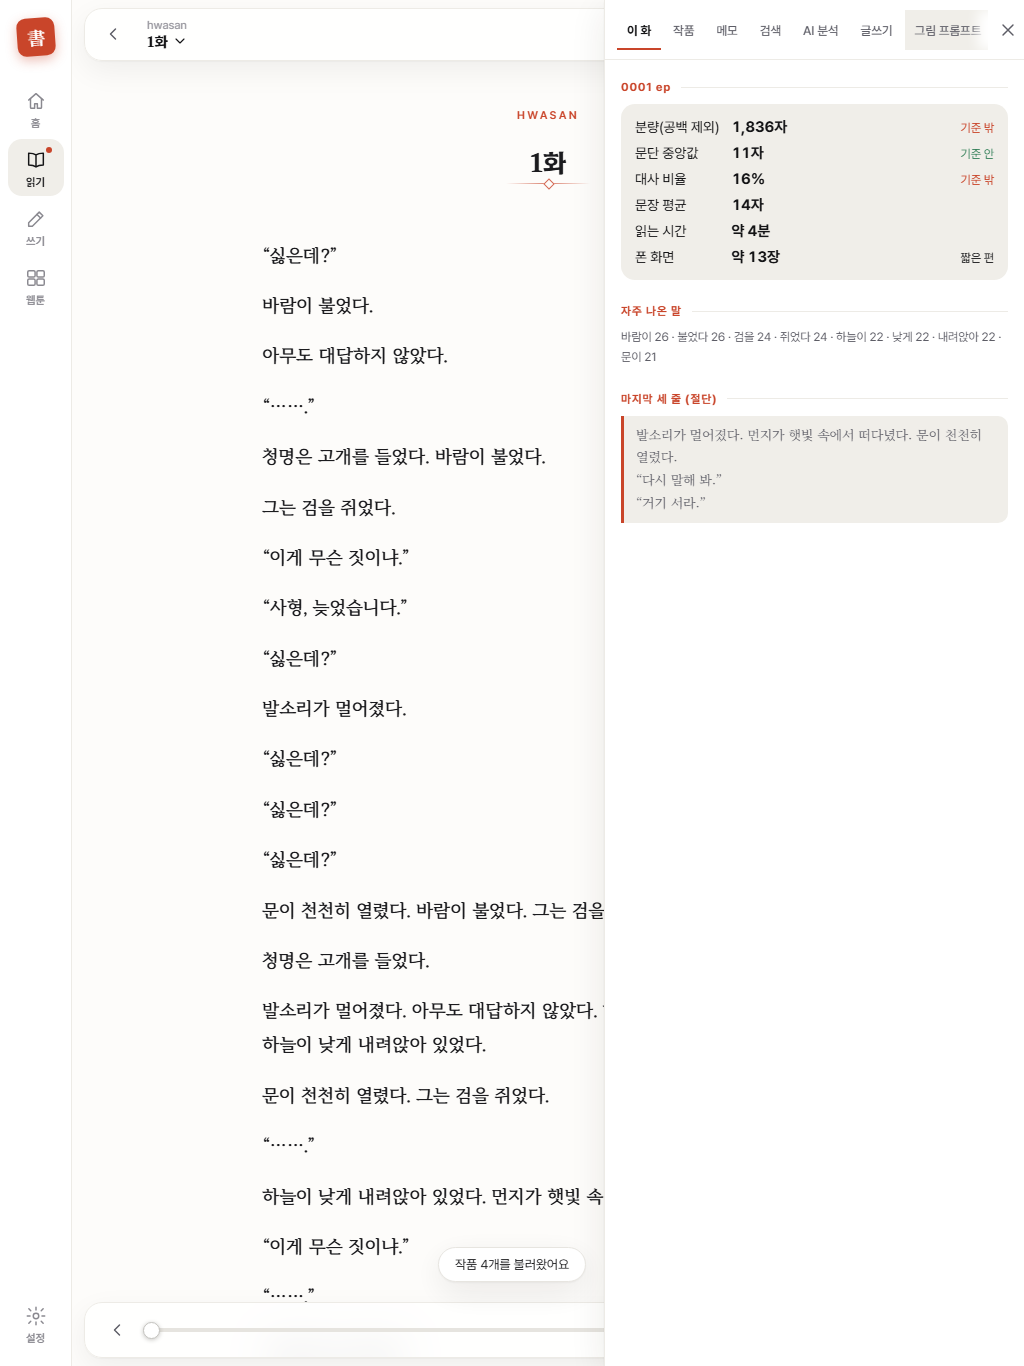
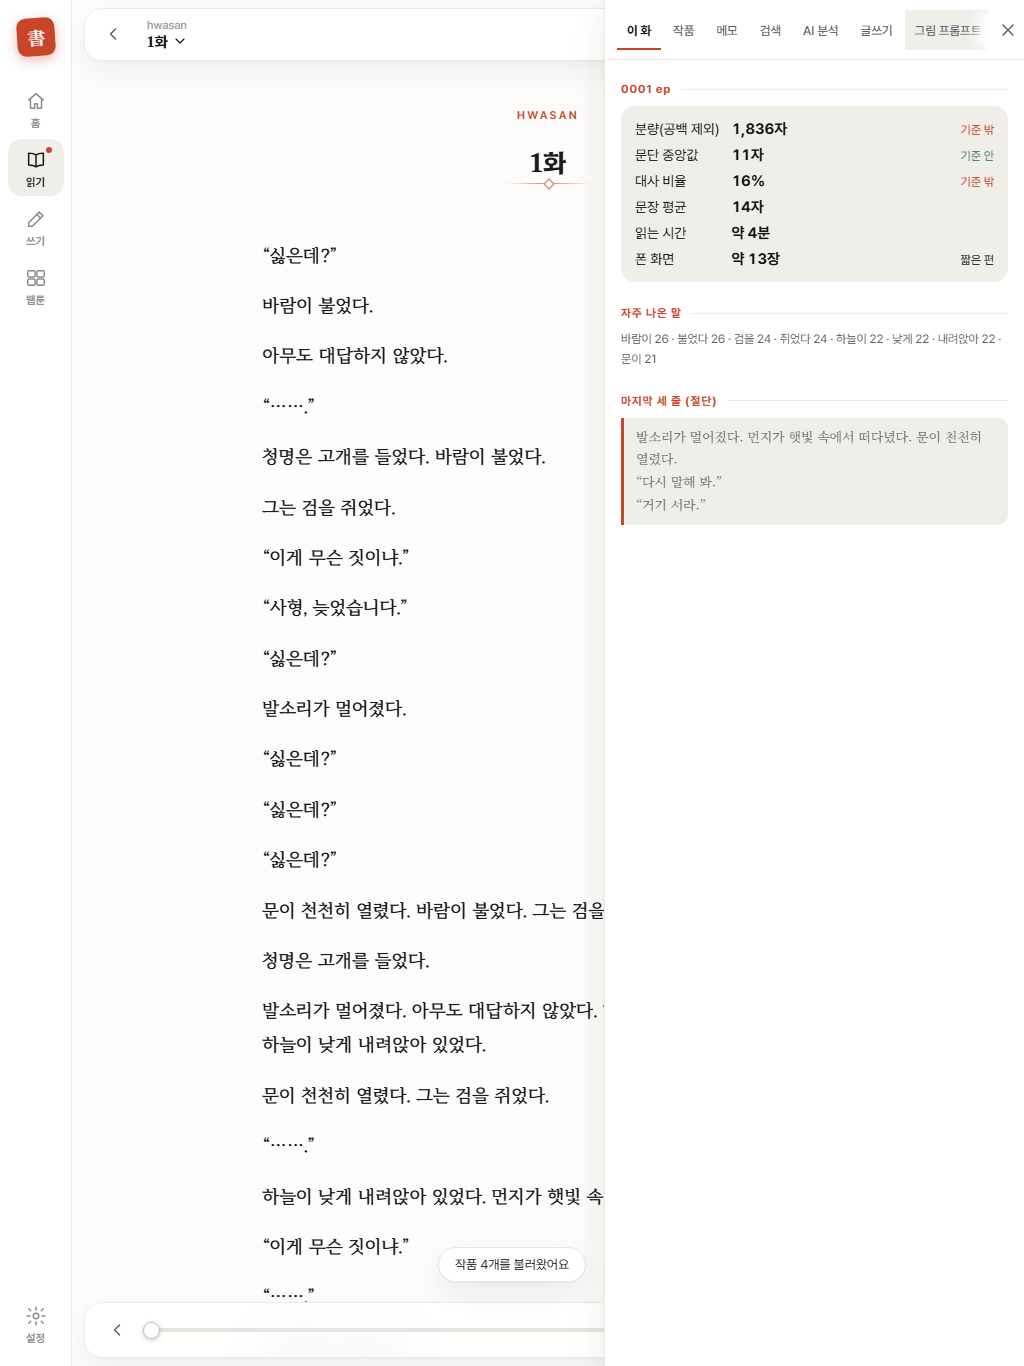
1.1.8: 뷰어 다듬기 — 표지 없는 작품은 활자 표지
- 표지 없는 소설·만화: 이름으로 고른 깊은 색(열 가지) 바탕에
  가는 이중 테두리·분류 글자·세리프 제목·마름모 장식을 얹은 활자 표지
  (예전의 납작한 먹빛 네모 + 주홍 도장을 걷어냄)
- 홈 '이어 읽기' 빈 칸: 책 아이콘과 안내 두 줄로 가운데 정돈
- 서재 묶음 머리글(소설·만화·웹툰)을 세리프로 또렷하게
- 도구 판: 탭 줄이 좁을 때 밀어 보기, 판 안쪽 여백
- 전체 시험 22묶음 285가지 전부 통과

diff --git a/index.html b/index.html
@@ -1024,7 +1024,6 @@ input[type=range]::-webkit-slider-runnable-track{background:linear-gradient(to r
 .card .cv{box-shadow:0 1px 2px rgb(30 24 12 / 10%), 0 8px 18px rgb(30 24 12 / 12%)}
 .card:hover .cv{transform:translateY(-2px);box-shadow:0 2px 4px rgb(30 24 12 / 12%), 0 14px 28px rgb(30 24 12 / 16%)}
 .card .cv .ph{background:linear-gradient(90deg, rgb(0 0 0 / 20%), rgb(0 0 0 / 4%) 6%, transparent 12%), hsl(var(--h) 30% 34%);color:hsl(var(--h) 40% 92%);padding:14px 12px 14px 16px;font:700 14px/1.45 var(--serif);text-shadow:none}
-.card .cv .ph::before,.card .cv .ph::after{display:none}
 :root[data-theme="dark"] .card .cv .ph,:root[data-theme="black"] .card .cv .ph{background:linear-gradient(90deg, rgb(0 0 0 / 30%), transparent 12%), hsl(var(--h) 22% 24%)}
 .card .cv .kind{display:none}
 .card .t{font:700 13.5px/1.4 var(--serif);margin-top:10px}
@@ -1100,9 +1099,7 @@ input[type=range]::-webkit-slider-runnable-track{background:linear-gradient(to r
 }
 
 /* 표지 없는 책: 먹빛에 작품마다 살짝 다른 색만 비치게, 아래에 주홍 도장 하나 */
-.card .cv .ph,.h-book .cv .ph,.h-read .w-resume .cv .ph,.h-pcv{background:linear-gradient(90deg, rgb(0 0 0 / 22%), rgb(0 0 0 / 4%) 6%, transparent 12%), linear-gradient(165deg, hsl(var(--h,30) 16% 30%), hsl(var(--h,30) 12% 20%))!important;color:#f3f1ec!important}
-.card .cv .ph::after{content:"";display:block!important;position:absolute;left:50%;bottom:16px;width:10px;height:10px;margin-left:-5px;border-radius:2px;background:var(--accent);transform:rotate(-4deg);box-shadow:none}
-:root[data-theme="dark"] .card .cv .ph,:root[data-theme="black"] .card .cv .ph{background:linear-gradient(90deg, rgb(0 0 0 / 30%), transparent 12%), linear-gradient(165deg, hsl(var(--h) 14% 24%), hsl(var(--h) 10% 15%))!important}
+.h-book .cv .ph,.h-read .w-resume .cv .ph,.h-pcv{background:linear-gradient(90deg, rgb(0 0 0 / 22%), rgb(0 0 0 / 4%) 6%, transparent 12%), linear-gradient(165deg, hsl(var(--h,30) 16% 30%), hsl(var(--h,30) 12% 20%))!important;color:#f3f1ec!important}
 .card .t,.h-book b{font-family:var(--display);font-weight:600}
 #studio .st-cover{background:linear-gradient(90deg, rgb(0 0 0 / 22%), transparent 14%), linear-gradient(165deg, hsl(var(--h,30) 16% 30%), hsl(var(--h,30) 12% 20%));color:#f3f1ec;font-family:var(--display);border-radius:3px 7px 7px 3px}
 #studio .st-cover[style*="url("]{background-size:cover;background-position:center}
@@ -1201,6 +1198,37 @@ input[type=range]::-webkit-slider-runnable-track{background:linear-gradient(to r
 .lan-addr button{flex:none;padding:7px 12px;font-size:12px}
 /* 손님(아이패드·폰)으로 열렸을 때: 넣기·연결 단추는 숨긴다 (읽기 전용) */
 .lan-guest #lpActs,.lan-guest #gnav [data-g=toon]{display:none!important}
+
+/* ---------- 다듬기: 표지 없는 작품은 활자 표지 ---------- */
+.card .cv .ph{display:flex;flex-direction:column;align-items:center;justify-content:center;gap:9px;padding:18px 12px 22px 17px;text-align:center;
+  background:
+    linear-gradient(90deg, rgb(0 0 0 / 30%), rgb(0 0 0 / 7%) 6%, transparent 13%),
+    radial-gradient(130% 90% at 50% -15%, hsl(var(--h) 45% 52% / .5), transparent 58%),
+    linear-gradient(hsl(var(--h) 36% 31%), hsl(var(--h) 40% 23%));
+  color:hsl(var(--h) 48% 94%)}
+.card .cv .ph::before{content:"";position:absolute;inset:9px 8px 9px 15px;border:1px solid hsl(var(--h) 55% 92% / .38);outline:1px solid hsl(var(--h) 55% 92% / .12);outline-offset:3px;border-radius:0;box-shadow:none;background:none;pointer-events:none}
+.card .cv .ph::after{content:"◆";position:absolute;left:0;right:0;top:auto;bottom:14px;width:auto;height:auto;margin:0;background:none;border:none;text-align:center;transform:translateX(3px);font-size:8px;line-height:1;opacity:.55;color:hsl(var(--h) 55% 90%)}
+.card .cv .ph i{font:600 10px/1 var(--ui);font-style:normal;letter-spacing:.38em;text-indent:.38em;opacity:.78}
+.card .cv .ph i:empty{display:none}
+.card .cv .ph b{font:700 16px/1.55 var(--serif);max-width:100%;display:-webkit-box;-webkit-line-clamp:4;-webkit-box-orient:vertical;overflow:hidden;word-break:keep-all;text-wrap:balance}
+:root[data-theme="dark"] .card .cv .ph,:root[data-theme="black"] .card .cv .ph{color:hsl(var(--h) 42% 90%);background:
+    linear-gradient(90deg, rgb(0 0 0 / 38%), rgb(0 0 0 / 10%) 6%, transparent 13%),
+    radial-gradient(130% 90% at 50% -15%, hsl(var(--h) 40% 42% / .45), transparent 58%),
+    linear-gradient(hsl(var(--h) 30% 23%), hsl(var(--h) 34% 16%))}
+
+/* 홈 '이어 읽기' 빈 칸: 가운데 정돈 */
+.h-read .h-none{display:flex;flex-direction:column;align-items:flex-start;justify-content:center;gap:10px;height:100%;min-height:150px;color:var(--sub)}
+.h-read .h-none .i{width:22px;height:22px;opacity:.4}
+.h-read .h-none p{margin:0;line-height:1.75}
+
+/* 서재 묶음 머리글(소설·만화·웹툰): 또렷하게 */
+.lib h4{font:700 14px/1 var(--serif);color:var(--ink);letter-spacing:.05em;gap:12px;margin:32px 2px 14px}
+
+/* 도구 판: 탭이 많아도 한 줄로 밀어 보기, 안쪽 숨통 */
+.tool .tabs{overflow-x:auto;scrollbar-width:none}
+.tool .tabs::-webkit-scrollbar{display:none}
+.tool .tabs button{white-space:nowrap}
+.pane{padding:18px 16px calc(26px + var(--sab))}
 </style>
 </head>
 <body>
@@ -1270,7 +1298,7 @@ input[type=range]::-webkit-slider-runnable-track{background:linear-gradient(to r
         <header class="pg-head"><div class="h-date" id="hDate"></div><h1 id="hHello">오늘도 한 줄부터.</h1></header>
         <div class="h-two">
           <section class="h-card h-write" id="hDesk"></section>
-          <section class="h-card h-read"><div class="h-k">이어 읽기</div><div class="w-resume" id="wResume" hidden></div><div class="h-none" id="hReadNone">아직 읽은 작품이 없어요.<button class="h-link" id="hLibAll">서재로 가기 →</button></div></section>
+          <section class="h-card h-read"><div class="h-k">이어 읽기</div><div class="w-resume" id="wResume" hidden></div><div class="h-none" id="hReadNone"><svg class="i"><use href="#i-book"/></svg><p>아직 읽은 작품이 없어요.<br>서재의 책을 열면 여기로 이어져요.</p><button class="h-link" id="hLibAll">서재로 가기 →</button></div></section>
         </div>
         <section class="h-memo"><input type="text" id="hIdeaIn" placeholder="떠오른 문장을 한 줄 남겨 두세요" autocomplete="off"><button id="hIdeaAdd">남기기</button></section>
         <div class="h-ideas" id="hIdeas"></div>
@@ -2101,7 +2129,14 @@ function workCard(w){
   const cu = coverUrl(w);
   d.innerHTML = `<div class="cv">${cu ? `<img alt="" src="${cu}">` : `<div class="ph"></div>`}<span class="kind">${({novel:'소설',webtoon:'웹툰',manga:'만화'})[w.kind]}</span>${pos?`<div class="pb"><i style="width:${pct}%"></i></div>`:''}</div><div class="t"></div><div class="m">${pos?`${Math.min(pos.ep+1,total)} / ${total}화`:`${total}화`}</div>`;
   d.querySelector('.t').textContent = w.name;
-  const ph = d.querySelector('.ph'); if (ph){ ph.textContent = w.name; ph.style.setProperty('--h', hueOf(w.name)); }   // 표지 없는 작품은 이름으로 색
+  const ph = d.querySelector('.ph'); if (ph){   // 표지 없는 작품: 이름으로 고른 깊은 색 + 활자 표지
+    const HS = [356, 22, 38, 95, 152, 185, 210, 250, 322, 8];   // 책 표지에 어울리는 열 가지 색
+    let n = 0; for (const ch of w.name) n = (n * 31 + ch.codePointAt(0)) >>> 0;
+    ph.style.setProperty('--h', String(HS[n % HS.length]));
+    ph.innerHTML = '<i></i><b></b>';
+    ph.querySelector('i').textContent = ({novel:'소설',webtoon:'웹툰',manga:'만화'})[w.kind] || '';
+    ph.querySelector('b').textContent = w.name;
+  }
   d.onclick = () => openWork(w);
   return d;
 }

diff --git a/src/css/shell.css b/src/css/shell.css
@@ -143,7 +143,6 @@ input[type=range]::-webkit-slider-runnable-track{background:linear-gradient(to r
 .card .cv{box-shadow:0 1px 2px rgb(30 24 12 / 10%), 0 8px 18px rgb(30 24 12 / 12%)}
 .card:hover .cv{transform:translateY(-2px);box-shadow:0 2px 4px rgb(30 24 12 / 12%), 0 14px 28px rgb(30 24 12 / 16%)}
 .card .cv .ph{background:linear-gradient(90deg, rgb(0 0 0 / 20%), rgb(0 0 0 / 4%) 6%, transparent 12%), hsl(var(--h) 30% 34%);color:hsl(var(--h) 40% 92%);padding:14px 12px 14px 16px;font:700 14px/1.45 var(--serif);text-shadow:none}
-.card .cv .ph::before,.card .cv .ph::after{display:none}
 :root[data-theme="dark"] .card .cv .ph,:root[data-theme="black"] .card .cv .ph{background:linear-gradient(90deg, rgb(0 0 0 / 30%), transparent 12%), hsl(var(--h) 22% 24%)}
 .card .cv .kind{display:none}
 .card .t{font:700 13.5px/1.4 var(--serif);margin-top:10px}
@@ -219,9 +218,7 @@ input[type=range]::-webkit-slider-runnable-track{background:linear-gradient(to r
 }
 
 /* 표지 없는 책: 먹빛에 작품마다 살짝 다른 색만 비치게, 아래에 주홍 도장 하나 */
-.card .cv .ph,.h-book .cv .ph,.h-read .w-resume .cv .ph,.h-pcv{background:linear-gradient(90deg, rgb(0 0 0 / 22%), rgb(0 0 0 / 4%) 6%, transparent 12%), linear-gradient(165deg, hsl(var(--h,30) 16% 30%), hsl(var(--h,30) 12% 20%))!important;color:#f3f1ec!important}
-.card .cv .ph::after{content:"";display:block!important;position:absolute;left:50%;bottom:16px;width:10px;height:10px;margin-left:-5px;border-radius:2px;background:var(--accent);transform:rotate(-4deg);box-shadow:none}
-:root[data-theme="dark"] .card .cv .ph,:root[data-theme="black"] .card .cv .ph{background:linear-gradient(90deg, rgb(0 0 0 / 30%), transparent 12%), linear-gradient(165deg, hsl(var(--h) 14% 24%), hsl(var(--h) 10% 15%))!important}
+.h-book .cv .ph,.h-read .w-resume .cv .ph,.h-pcv{background:linear-gradient(90deg, rgb(0 0 0 / 22%), rgb(0 0 0 / 4%) 6%, transparent 12%), linear-gradient(165deg, hsl(var(--h,30) 16% 30%), hsl(var(--h,30) 12% 20%))!important;color:#f3f1ec!important}
 .card .t,.h-book b{font-family:var(--display);font-weight:600}
 #studio .st-cover{background:linear-gradient(90deg, rgb(0 0 0 / 22%), transparent 14%), linear-gradient(165deg, hsl(var(--h,30) 16% 30%), hsl(var(--h,30) 12% 20%));color:#f3f1ec;font-family:var(--display);border-radius:3px 7px 7px 3px}
 #studio .st-cover[style*="url("]{background-size:cover;background-position:center}
@@ -320,3 +317,34 @@ input[type=range]::-webkit-slider-runnable-track{background:linear-gradient(to r
 .lan-addr button{flex:none;padding:7px 12px;font-size:12px}
 /* 손님(아이패드·폰)으로 열렸을 때: 넣기·연결 단추는 숨긴다 (읽기 전용) */
 .lan-guest #lpActs,.lan-guest #gnav [data-g=toon]{display:none!important}
+
+/* ---------- 다듬기: 표지 없는 작품은 활자 표지 ---------- */
+.card .cv .ph{display:flex;flex-direction:column;align-items:center;justify-content:center;gap:9px;padding:18px 12px 22px 17px;text-align:center;
+  background:
+    linear-gradient(90deg, rgb(0 0 0 / 30%), rgb(0 0 0 / 7%) 6%, transparent 13%),
+    radial-gradient(130% 90% at 50% -15%, hsl(var(--h) 45% 52% / .5), transparent 58%),
+    linear-gradient(hsl(var(--h) 36% 31%), hsl(var(--h) 40% 23%));
+  color:hsl(var(--h) 48% 94%)}
+.card .cv .ph::before{content:"";position:absolute;inset:9px 8px 9px 15px;border:1px solid hsl(var(--h) 55% 92% / .38);outline:1px solid hsl(var(--h) 55% 92% / .12);outline-offset:3px;border-radius:0;box-shadow:none;background:none;pointer-events:none}
+.card .cv .ph::after{content:"◆";position:absolute;left:0;right:0;top:auto;bottom:14px;width:auto;height:auto;margin:0;background:none;border:none;text-align:center;transform:translateX(3px);font-size:8px;line-height:1;opacity:.55;color:hsl(var(--h) 55% 90%)}
+.card .cv .ph i{font:600 10px/1 var(--ui);font-style:normal;letter-spacing:.38em;text-indent:.38em;opacity:.78}
+.card .cv .ph i:empty{display:none}
+.card .cv .ph b{font:700 16px/1.55 var(--serif);max-width:100%;display:-webkit-box;-webkit-line-clamp:4;-webkit-box-orient:vertical;overflow:hidden;word-break:keep-all;text-wrap:balance}
+:root[data-theme="dark"] .card .cv .ph,:root[data-theme="black"] .card .cv .ph{color:hsl(var(--h) 42% 90%);background:
+    linear-gradient(90deg, rgb(0 0 0 / 38%), rgb(0 0 0 / 10%) 6%, transparent 13%),
+    radial-gradient(130% 90% at 50% -15%, hsl(var(--h) 40% 42% / .45), transparent 58%),
+    linear-gradient(hsl(var(--h) 30% 23%), hsl(var(--h) 34% 16%))}
+
+/* 홈 '이어 읽기' 빈 칸: 가운데 정돈 */
+.h-read .h-none{display:flex;flex-direction:column;align-items:flex-start;justify-content:center;gap:10px;height:100%;min-height:150px;color:var(--sub)}
+.h-read .h-none .i{width:22px;height:22px;opacity:.4}
+.h-read .h-none p{margin:0;line-height:1.75}
+
+/* 서재 묶음 머리글(소설·만화·웹툰): 또렷하게 */
+.lib h4{font:700 14px/1 var(--serif);color:var(--ink);letter-spacing:.05em;gap:12px;margin:32px 2px 14px}
+
+/* 도구 판: 탭이 많아도 한 줄로 밀어 보기, 안쪽 숨통 */
+.tool .tabs{overflow-x:auto;scrollbar-width:none}
+.tool .tabs::-webkit-scrollbar{display:none}
+.tool .tabs button{white-space:nowrap}
+.pane{padding:18px 16px calc(26px + var(--sab))}

diff --git a/src/js/02-library.js b/src/js/02-library.js
@@ -118,7 +118,14 @@ function workCard(w){
   const cu = coverUrl(w);
   d.innerHTML = `<div class="cv">${cu ? `<img alt="" src="${cu}">` : `<div class="ph"></div>`}<span class="kind">${({novel:'소설',webtoon:'웹툰',manga:'만화'})[w.kind]}</span>${pos?`<div class="pb"><i style="width:${pct}%"></i></div>`:''}</div><div class="t"></div><div class="m">${pos?`${Math.min(pos.ep+1,total)} / ${total}화`:`${total}화`}</div>`;
   d.querySelector('.t').textContent = w.name;
-  const ph = d.querySelector('.ph'); if (ph){ ph.textContent = w.name; ph.style.setProperty('--h', hueOf(w.name)); }   // 표지 없는 작품은 이름으로 색
+  const ph = d.querySelector('.ph'); if (ph){   // 표지 없는 작품: 이름으로 고른 깊은 색 + 활자 표지
+    const HS = [356, 22, 38, 95, 152, 185, 210, 250, 322, 8];   // 책 표지에 어울리는 열 가지 색
+    let n = 0; for (const ch of w.name) n = (n * 31 + ch.codePointAt(0)) >>> 0;
+    ph.style.setProperty('--h', String(HS[n % HS.length]));
+    ph.innerHTML = '<i></i><b></b>';
+    ph.querySelector('i').textContent = ({novel:'소설',webtoon:'웹툰',manga:'만화'})[w.kind] || '';
+    ph.querySelector('b').textContent = w.name;
+  }
   d.onclick = () => openWork(w);
   return d;
 }

diff --git a/src/body.html b/src/body.html
@@ -65,7 +65,7 @@
         <header class="pg-head"><div class="h-date" id="hDate"></div><h1 id="hHello">오늘도 한 줄부터.</h1></header>
         <div class="h-two">
           <section class="h-card h-write" id="hDesk"></section>
-          <section class="h-card h-read"><div class="h-k">이어 읽기</div><div class="w-resume" id="wResume" hidden></div><div class="h-none" id="hReadNone">아직 읽은 작품이 없어요.<button class="h-link" id="hLibAll">서재로 가기 →</button></div></section>
+          <section class="h-card h-read"><div class="h-k">이어 읽기</div><div class="w-resume" id="wResume" hidden></div><div class="h-none" id="hReadNone"><svg class="i"><use href="#i-book"/></svg><p>아직 읽은 작품이 없어요.<br>서재의 책을 열면 여기로 이어져요.</p><button class="h-link" id="hLibAll">서재로 가기 →</button></div></section>
         </div>
         <section class="h-memo"><input type="text" id="hIdeaIn" placeholder="떠오른 문장을 한 줄 남겨 두세요" autocomplete="off"><button id="hIdeaAdd">남기기</button></section>
         <div class="h-ideas" id="hIdeas"></div>

diff --git a/sw.js b/sw.js
@@ -1,5 +1,5 @@
 // 노벨 뷰어 오프라인 캐시: 앱 파일과 라이브러리는 캐시에서, 새 버전은 다음 실행 때 반영
-const CACHE = 'nv-v35';
+const CACHE = 'nv-v36';
 const APP = ['./', './index.html', './manifest.webmanifest', './icon-192.png', './icon-512.png', './apple-touch-icon.png'];
 const LIBS = /^https:\/\/(cdn\.jsdelivr\.net|cdnjs\.cloudflare\.com|fonts\.googleapis\.com|fonts\.gstatic\.com)\//;
 
